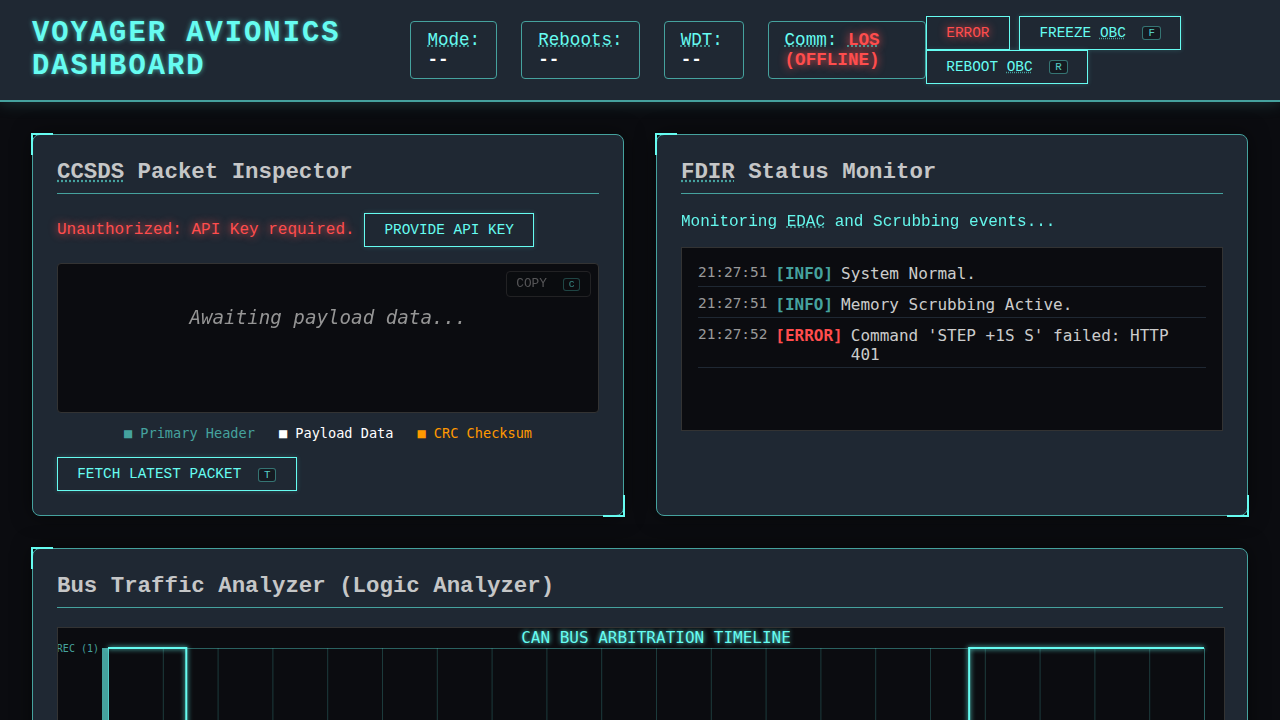
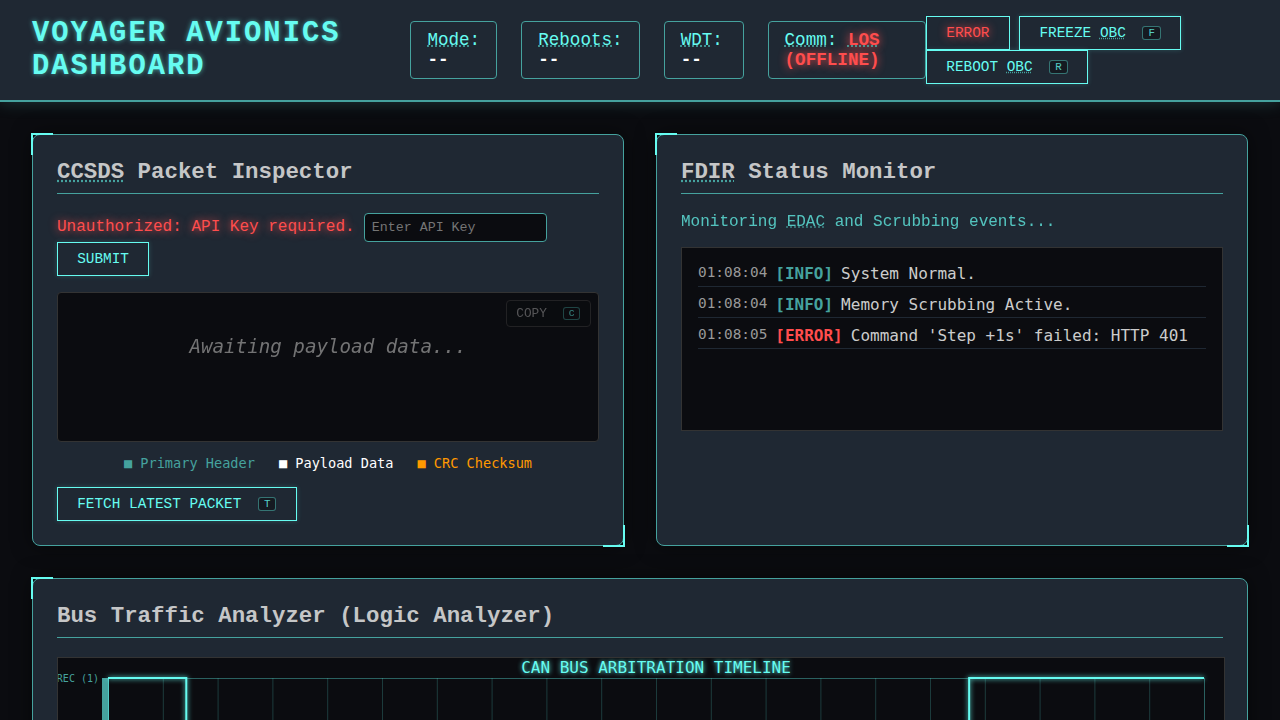
🎨 Palette: Add proper semantic label for API Key input
Replaced a loose text node indicating an unauthorized state with a proper
`<label>` element associated via `htmlFor` with the dynamically generated
API key input. This improves accessibility and complies with UX coding
standards for forms.

diff --git a/public/packet_viewer.js b/public/packet_viewer.js
@@ -189,7 +189,12 @@ async function updateTelemetry() {
                     return;
                 }
 
-                statusElement.textContent = "Unauthorized: API Key required. ";
+                statusElement.textContent = "";
+
+                const label = document.createElement('label');
+                label.htmlFor = "api-key-input";
+                label.textContent = "Unauthorized: API Key required. ";
+                statusElement.appendChild(label);
 
                 const input = document.createElement('input');
                 input.type = "password";

diff --git a/.jules/palette.md b/.jules/palette.md
@@ -96,3 +96,7 @@
 ## 2026-03-24 - Blocking Prompts in Real-time Dashboards
 **Learning:** Using blocking browser dialogs like `prompt()` for authentication (e.g., API Key entry) disrupts the user experience, especially in real-time dashboards with background polling. Furthermore, if an inline input replaces the prompt but isn't protected, the continuous polling loop will overwrite the DOM and steal focus while the user is typing.
 **Action:** Always replace blocking `prompt()` dialogs with inline `<input>` elements. Crucially, when rendering inputs dynamically inside a polling loop, add a check (like `if (container.querySelector('input')) return;`) to ensure the input is not continuously overwritten, preserving user focus and input state.
+
+## 2026-03-30 - Semantic Labels for Dynamic Inputs
+**Learning:** When injecting dynamic inputs into the DOM (such as a fallback authentication prompt), appending loose text nodes beside the input creates orphaned form fields. Screen readers rely on explicit `<label>` associations to announce inputs correctly, and visual users benefit from an increased click target area.
+**Action:** Always wrap text associated with dynamically generated inputs in a semantic `<label>` element with a matching `htmlFor` attribute. Do not use plain text nodes for input prompts.
